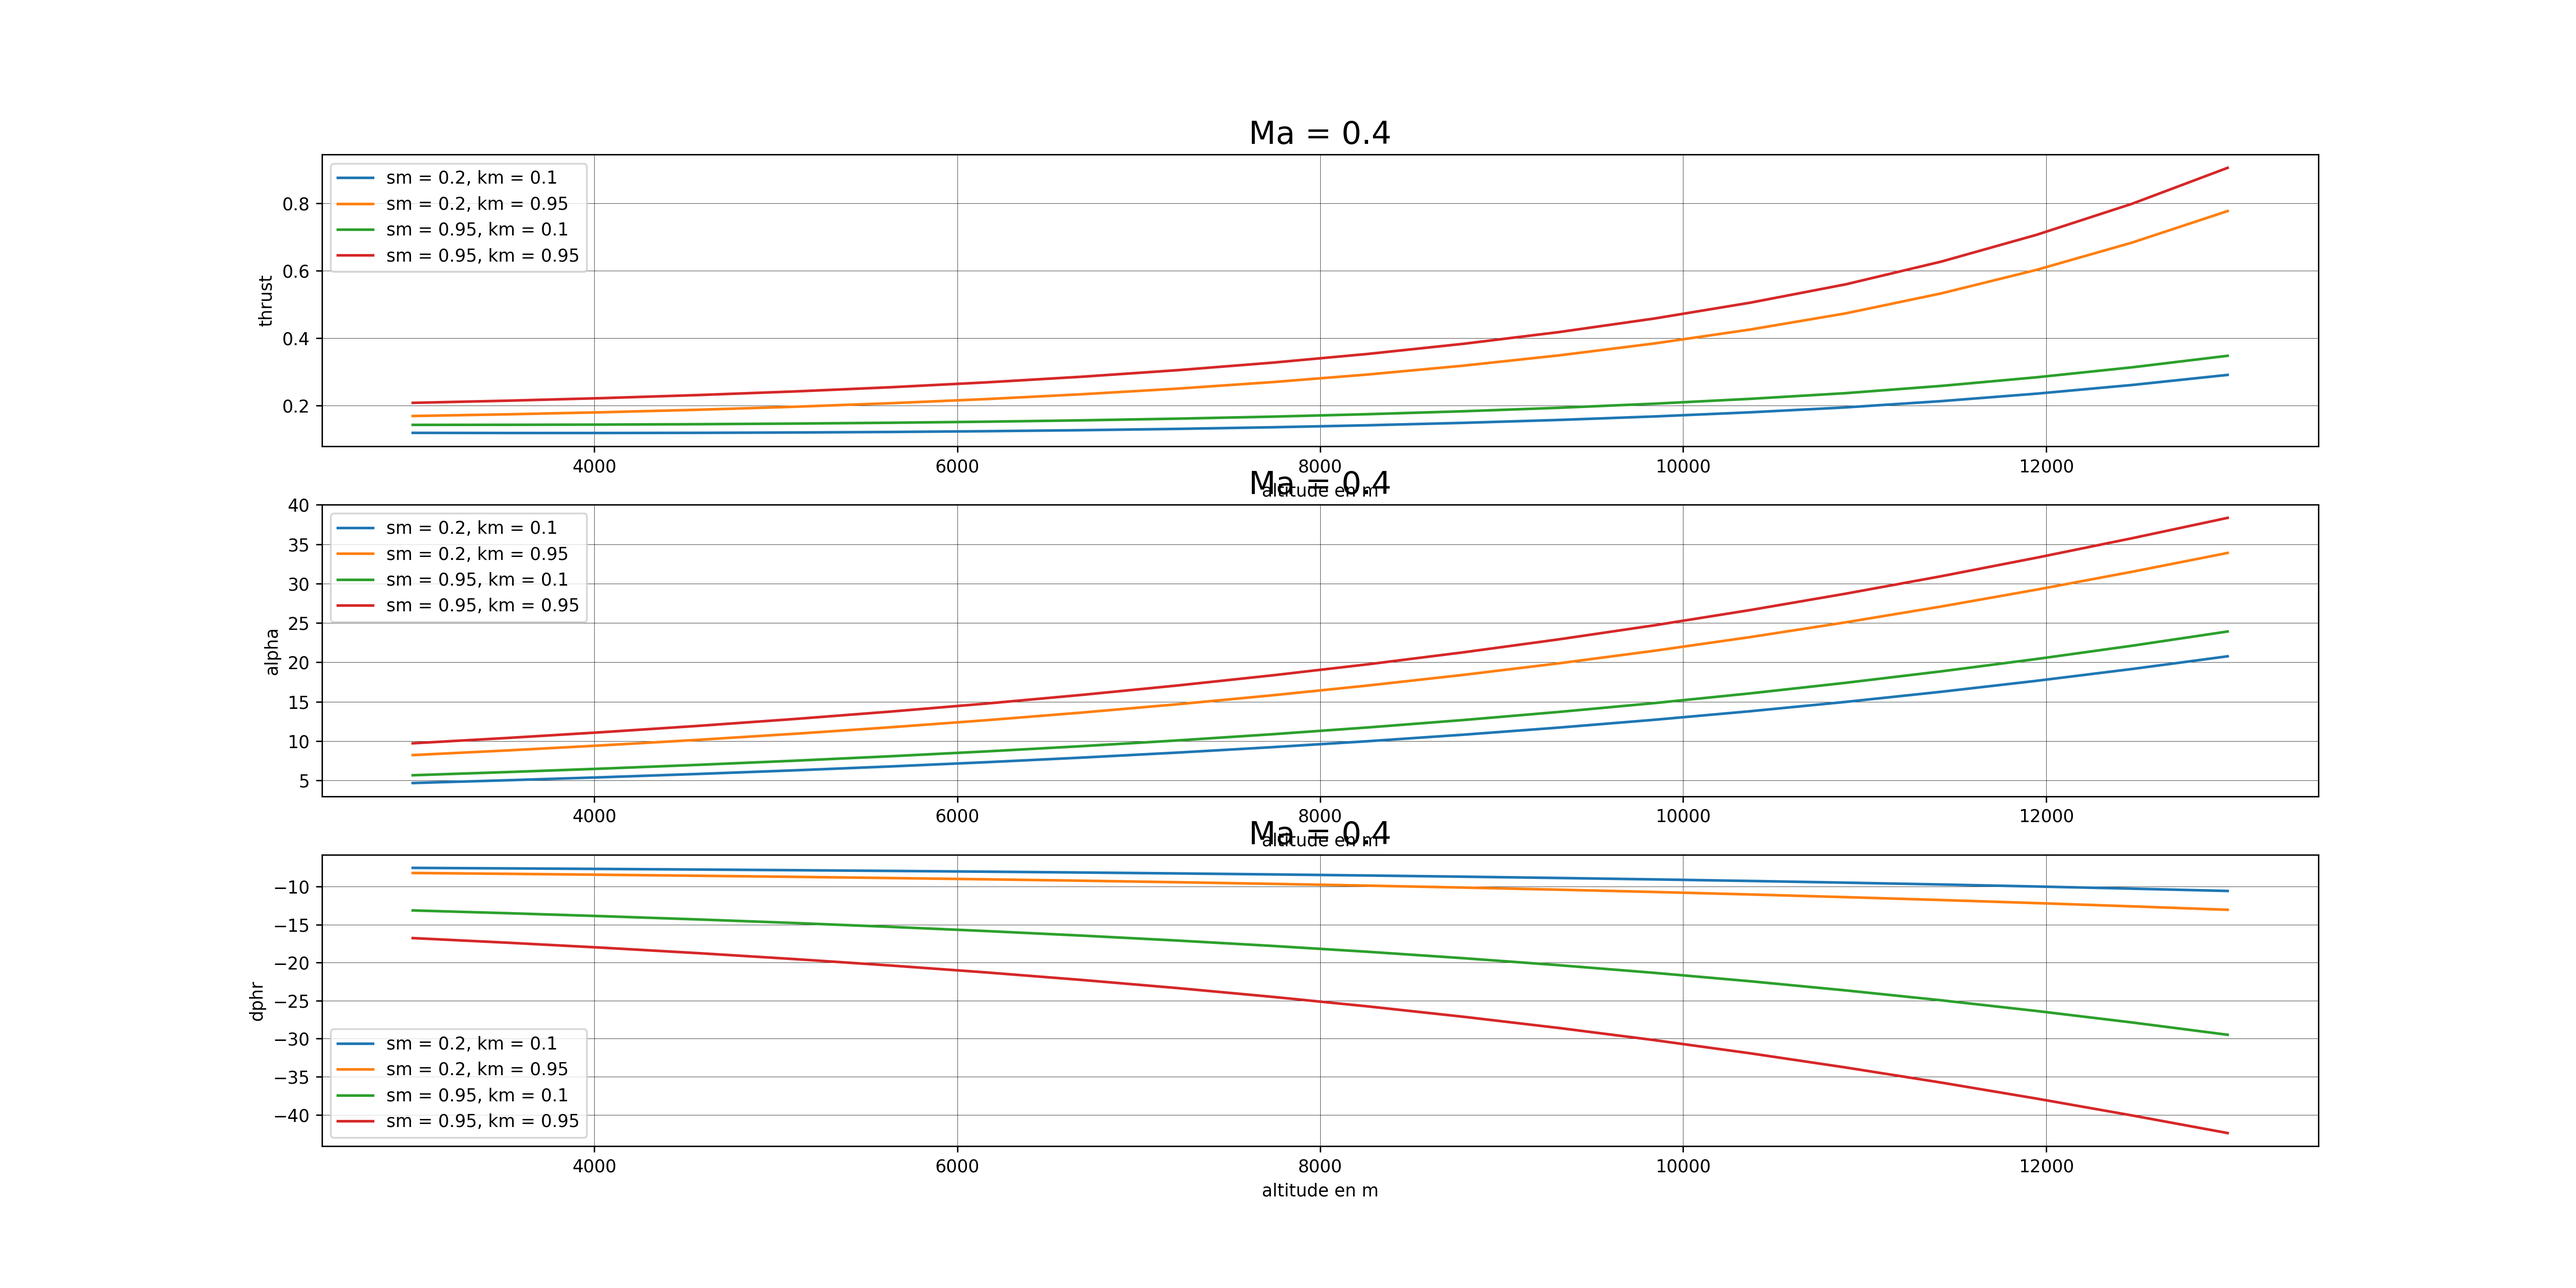
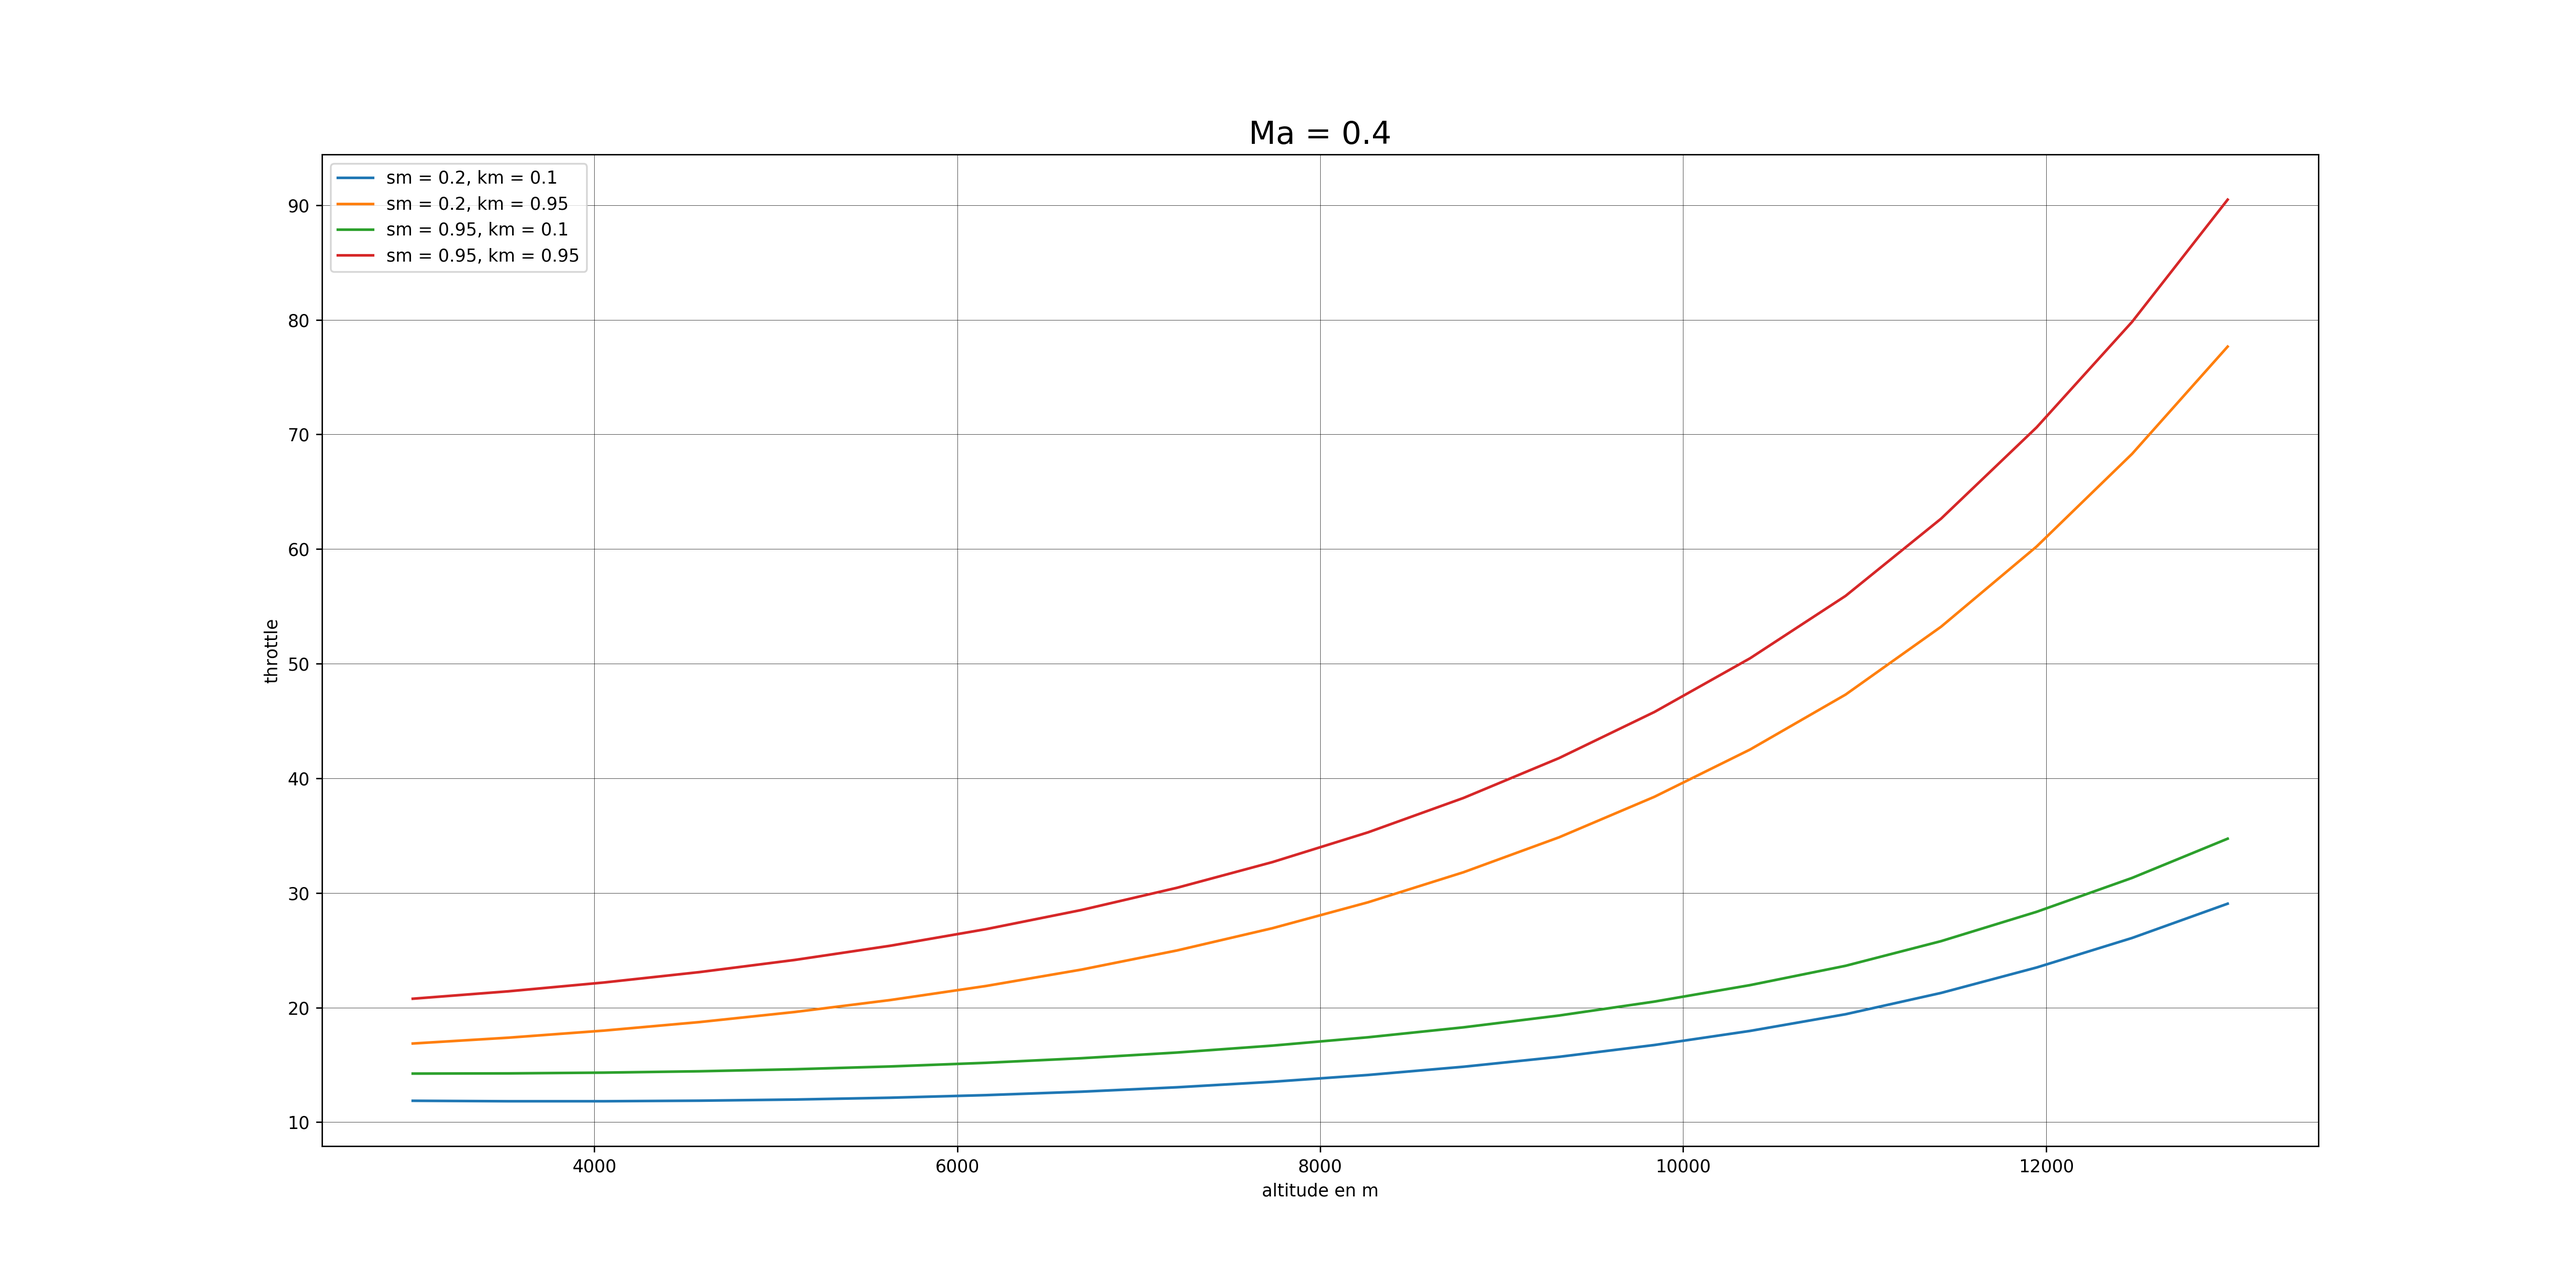
new plots

diff --git a/seance_2.py b/seance_2.py
@@ -103,6 +103,7 @@ def plot_traj_trim_antoine(aircraft, h, Ma, sm, km):
     dyn.plot(time, np.array(list_X))
 
 
+
 def get_CL_Fmax_trim(aircraft, h, Ma):
     p, rho, T = ut.isa(h)
     va = dyn.va_of_mach(Ma, h)
@@ -149,10 +150,15 @@ def plot_trims(aircraft, sms, kms, filename=None):
         aircraft.set_mass_and_static_margin(km, ms)
         va = dyn.va_of_mach(mach, h)
         X, U = dyn.trim(aircraft, {'va': va, 'h': h, 'gamma': 0})
-        return 2 * dyn.propulsion_model(X, U, aircraft)
+        alpha = X[3]
+        q = 0
+        dphr = U[0]
+        CL = dyn.get_aero_coefs(va, alpha, q, dphr, aircraft)[0]
+        return 2 * dyn.propulsion_model(X, U, aircraft), CL
 
     figure = ut.prepare_fig(None, 'Poussée en fonction du mach {name}'.format(name=aircraft.name),
                             margins=(0.05, 0.08, 0.98, 0.93, 0.2, 0.31))
+    plt.title('Poussée utile en fonction du mach')
 
     compteur = 1
     for i, km in enumerate(kms):
@@ -160,10 +166,18 @@ def plot_trims(aircraft, sms, kms, filename=None):
             ax = plt.subplot(2, 2, compteur)
             compteur += 1
             for h in hs:
-                thrusts = [thrust(mach, h, ms, km) for mach in machs]
-                plt.plot(machs, thrusts)
-                ut.decorate(ax, 'Poussée f(mach), ms : {}, km : {}'.format(ms, km), 'Mach', 'Thrust',
+                machs_plot = []
+                thrusts = []
+                for mach in machs:
+                    poussee, CL = thrust(mach, h, ms, km)
+                    print(CL)
+                    if CL < 1.3:  # https://www.hkw-aero.fr/pdf/MK_Czmax_avions_de_transport.pdf
+                        machs_plot.append(mach)
+                        thrusts.append(poussee)
+                plt.plot(machs_plot, thrusts)
+                ut.decorate(ax, 'ms : {}, km : {}'.format(ms, km), 'Mach', 'Thrust',
                             legend=['h : {}'.format(h) for h in hs])
+    plt.legend()
 
     if filename is not None:
         plt.savefig(filename, dpi=160)
@@ -207,11 +221,11 @@ def get_CL_from_trim(aircraft, h, Ma, sm, km):
 
 
 def plot_poles_antoine(aircraft, hs, Mas, sm, km, filename=None):
-    fig = ut.prepare_fig(window_title='Poles {} (km:{})'.format(aircraft.name, kms), figsize=(20.48, 10.24))
+    fig = ut.prepare_fig(window_title='Poles {} (km:{})'.format(aircraft.name, kms), figsize=(14.33, 7.16))
     for Ma in Mas:
         for h in hs:
             poles = get_linearized_model(aircraft, h, Ma, sm, km)[2]
-            plt.plot(poles.real, poles.imag, '.', markersize=7, alpha=1.)
+            plt.plot(poles.real, poles.imag, '.', markersize=12, alpha=1.)
             ut.decorate(plt.gca(), 'sm : {}, km : {}'.format(sm, km),
                         legend=['Ma: {}, h : {}'.format(Mas[0], h) for h in hs] + ['Ma: {}, h : {}'.format(Mas[1], h)
                                                                                    for h in hs])
@@ -233,30 +247,77 @@ def plot_trim_ben(aircraft, hs, Mas, kms, sms):
                 dphrs = []
                 for i, h in enumerate(hs):
                     alpha, dphr, dth = trims[i, j, k, l]
-                    thrusts.append(dth)
+                    thrusts.append(dth * 100)
                     alphas.append(ut.deg_of_rad(alpha))
                     dphrs.append(ut.deg_of_rad(dphr))
 
-                ax = plt.subplot(3, 1, 1)
+                # ax = plt.subplot(3, 1, 1)
+                ax = plt.gca()
                 plt.plot(hs, thrusts)
-                ut.decorate(ax, 'Ma = {}'.format(Ma), 'altitude en m', 'thrust',
+                ut.decorate(ax, 'Ma = {}'.format(Ma), 'altitude en m', 'throttle',
                             legend=['sm = {}, km = {}'.format(sms[0], km) for km in kms] +
                                    ['sm = {}, km = {}'.format(sms[1], km) for km in kms])
 
-                ax = plt.subplot(3, 1, 2)
-                plt.plot(hs, alphas)
-                ut.decorate(ax, 'Ma = {}'.format(Ma), 'altitude en m', 'alpha',
-                            legend=['sm = {}, km = {}'.format(sms[0], km) for km in kms] +
-                                   ['sm = {}, km = {}'.format(sms[1], km) for km in kms])
-
-                ax = plt.subplot(3, 1, 3)
-                plt.plot(hs, dphrs)
-                ut.decorate(ax, 'Ma = {}'.format(Ma), 'altitude en m', 'dphr',
-                            legend=['sm = {}, km = {}'.format(sms[0], km) for km in kms] +
-                                   ['sm = {}, km = {}'.format(sms[1], km) for km in kms])
+                # ax = plt.subplot(3, 1, 2)
+                # plt.plot(hs, alphas)
+                # ut.decorate(ax, 'Ma = {}'.format(Ma), 'altitude en m', 'alpha',
+                #             legend=['sm = {}, km = {}'.format(sms[0], km) for km in kms] +
+                #                    ['sm = {}, km = {}'.format(sms[1], km) for km in kms])
+                #
+                # ax = plt.subplot(3, 1, 3)
+                # plt.plot(hs, dphrs)
+                # ut.decorate(ax, 'Ma = {}'.format(Ma), 'altitude en m', 'dphr',
+                #             legend=['sm = {}, km = {}'.format(sms[0], km) for km in kms] +
+                #                    ['sm = {}, km = {}'.format(sms[1], km) for km in kms])
 
         if filename is not None:
             plt.savefig(filename, dpi=250)
+    return fig
+
+
+def plot_trim_antoine(aircraft, hs, Mas, kms, sms):
+    filename = 'plots/seance_2/trims_antoine.png'
+    margins = (0.03, 0.05, 0.98, 0.95, 0.2, 0.38)
+    fig = ut.prepare_fig(window_title='trims_antoine', figsize=(20.48, 10.24), margins=margins)
+    m = 0
+    for k, sm in enumerate(sms):
+        for l, km in enumerate(kms):
+            aircraft.set_mass_and_static_margin(km, sm)
+            for mach in Mas:
+                alphas = []
+                dphrs = []
+                throttles = []
+                hs_plot = []
+                for h in hs:
+                    Xe, Ue = get_trim(aircraft, h, mach, sm, km)
+                    alpha = Xe[3]
+                    dphr = Ue[0]
+                    throttle = Ue[1] * 100
+                    va = Xe[2]
+                    q = Xe[5]
+                    CL = dyn.get_aero_coefs(va, alpha, q, dphr, aircraft)[0]
+                    if CL < 1.3:
+                        hs_plot.append(h)
+                        alphas.append(ut.deg_of_rad(alpha))
+                        dphrs.append(ut.deg_of_rad(dphr))
+                        throttles.append(throttle)
+
+                ax = plt.subplot(4, 3, 3 * m + 1)
+                plt.plot(hs_plot, alphas)
+                ut.decorate(ax, r'$sm : {} \quad km : {}$'.format(sm, km), r'altitude en mètre', r'$\alpha$ deg',
+                            legend=['Mach {}'.format(Ma) for Ma in Mas])
+                ax = plt.subplot(4, 3, 3 * m + 2)
+                plt.plot(hs_plot, dphrs)
+                ut.decorate(ax, r'$sm : {} \quad km : {}$'.format(sm, km), r'altitude en mètre', r'$\delta_{phr}$ deg',
+                            legend=['Mach {}'.format(Ma) for Ma in Mas])
+
+                ax = plt.subplot(4, 3, 3 * m + 3)
+                plt.plot(hs_plot, throttles)
+                ut.decorate(ax, r'$sm : {} \quad km : {}$'.format(sm, km), r'altitude en mètre', 'throttle %',
+                            legend=['Mach {}'.format(Ma) for Ma in Mas])
+            m = m + 1
+
+    plt.savefig(filename, dpi=250)
     return fig
 
 
@@ -267,7 +328,7 @@ if __name__ == "__main__":
 
     trims = get_all_trims(aircraft, hs, Mas, sms, kms)
     # plot_all_trims(aircraft, hs, Mas, sms, kms, trims, 'plots/seance_2/{}_trim.png'.format(aircraft.get_name()))
-    plot_trims(aircraft, sms, kms, filename='plots/seance_2/{} poussee - mach.png'.format(aircraft.get_name()))
+    # plot_trims(aircraft, sms, kms, filename='plots/seance_2/{} poussee - mach.png'.format(aircraft.get_name()))
 
     """notre point de trim perso"""
     sm, km = sms[0], kms[1]
@@ -278,14 +339,15 @@ if __name__ == "__main__":
     # plot_traj_trim_antoine(aircraft, 11600, Ma, sm, km)
     # plot_traj_trim(aircraft, 3200, Ma, sm, km)
 
-    # hs, Mas = [3000, 11000], [0.4, 0.8]
+    hs, Mas = [3000, 11000], [0.4, 0.8]
     # plot_poles(aircraft, hs, Mas, sms, [kms[0]], 'plots/seance_2/{}_poles_1.png'.format(aircraft.get_name()))
     # plot_poles(aircraft, hs, Mas, sms, [kms[1]], 'plots/seance_2/{}_poles_2.png'.format(aircraft.get_name()))
     # plt.show()
 
-    # for sm in sms:
-    #     for km in kms:
-    #         plot_poles_antoine(aircraft, hs, Mas, sm, km,
-    #                            'plots/seance_2/poles_antoine sm {}, km {}.png'.format(sm, km))
+    for sm in sms:
+        for km in kms:
+            plot_poles_antoine(aircraft, hs, Mas, sm, km,
+                               'plots/seance_2/poles_antoine sm {}, km {}.png'.format(sm, km))
 
-    plot_trim_ben(aircraft, hs, Mas, kms, sms)
+    # plot_trim_ben(aircraft, hs, Mas, kms, sms)
+    # plot_trim_antoine(aircraft, hs, Mas, kms, sms)

diff --git a/README.md b/README.md
@@ -12,6 +12,3 @@ https://docs.google.com/document/d/1FQ2R_USQzVIUU3gAULH7Yr5_GzuPM2p8o6Parkkms5I/
 
 # variable
 P est aircraft sont instanciés de la class Param_XXXX(Param)
-
-# TODO 
-Tracer les courbes poussée utile, poussée nécessaire en fonction de la vitesse pour différentes altitudes pour visualiser le 2nd régime 
